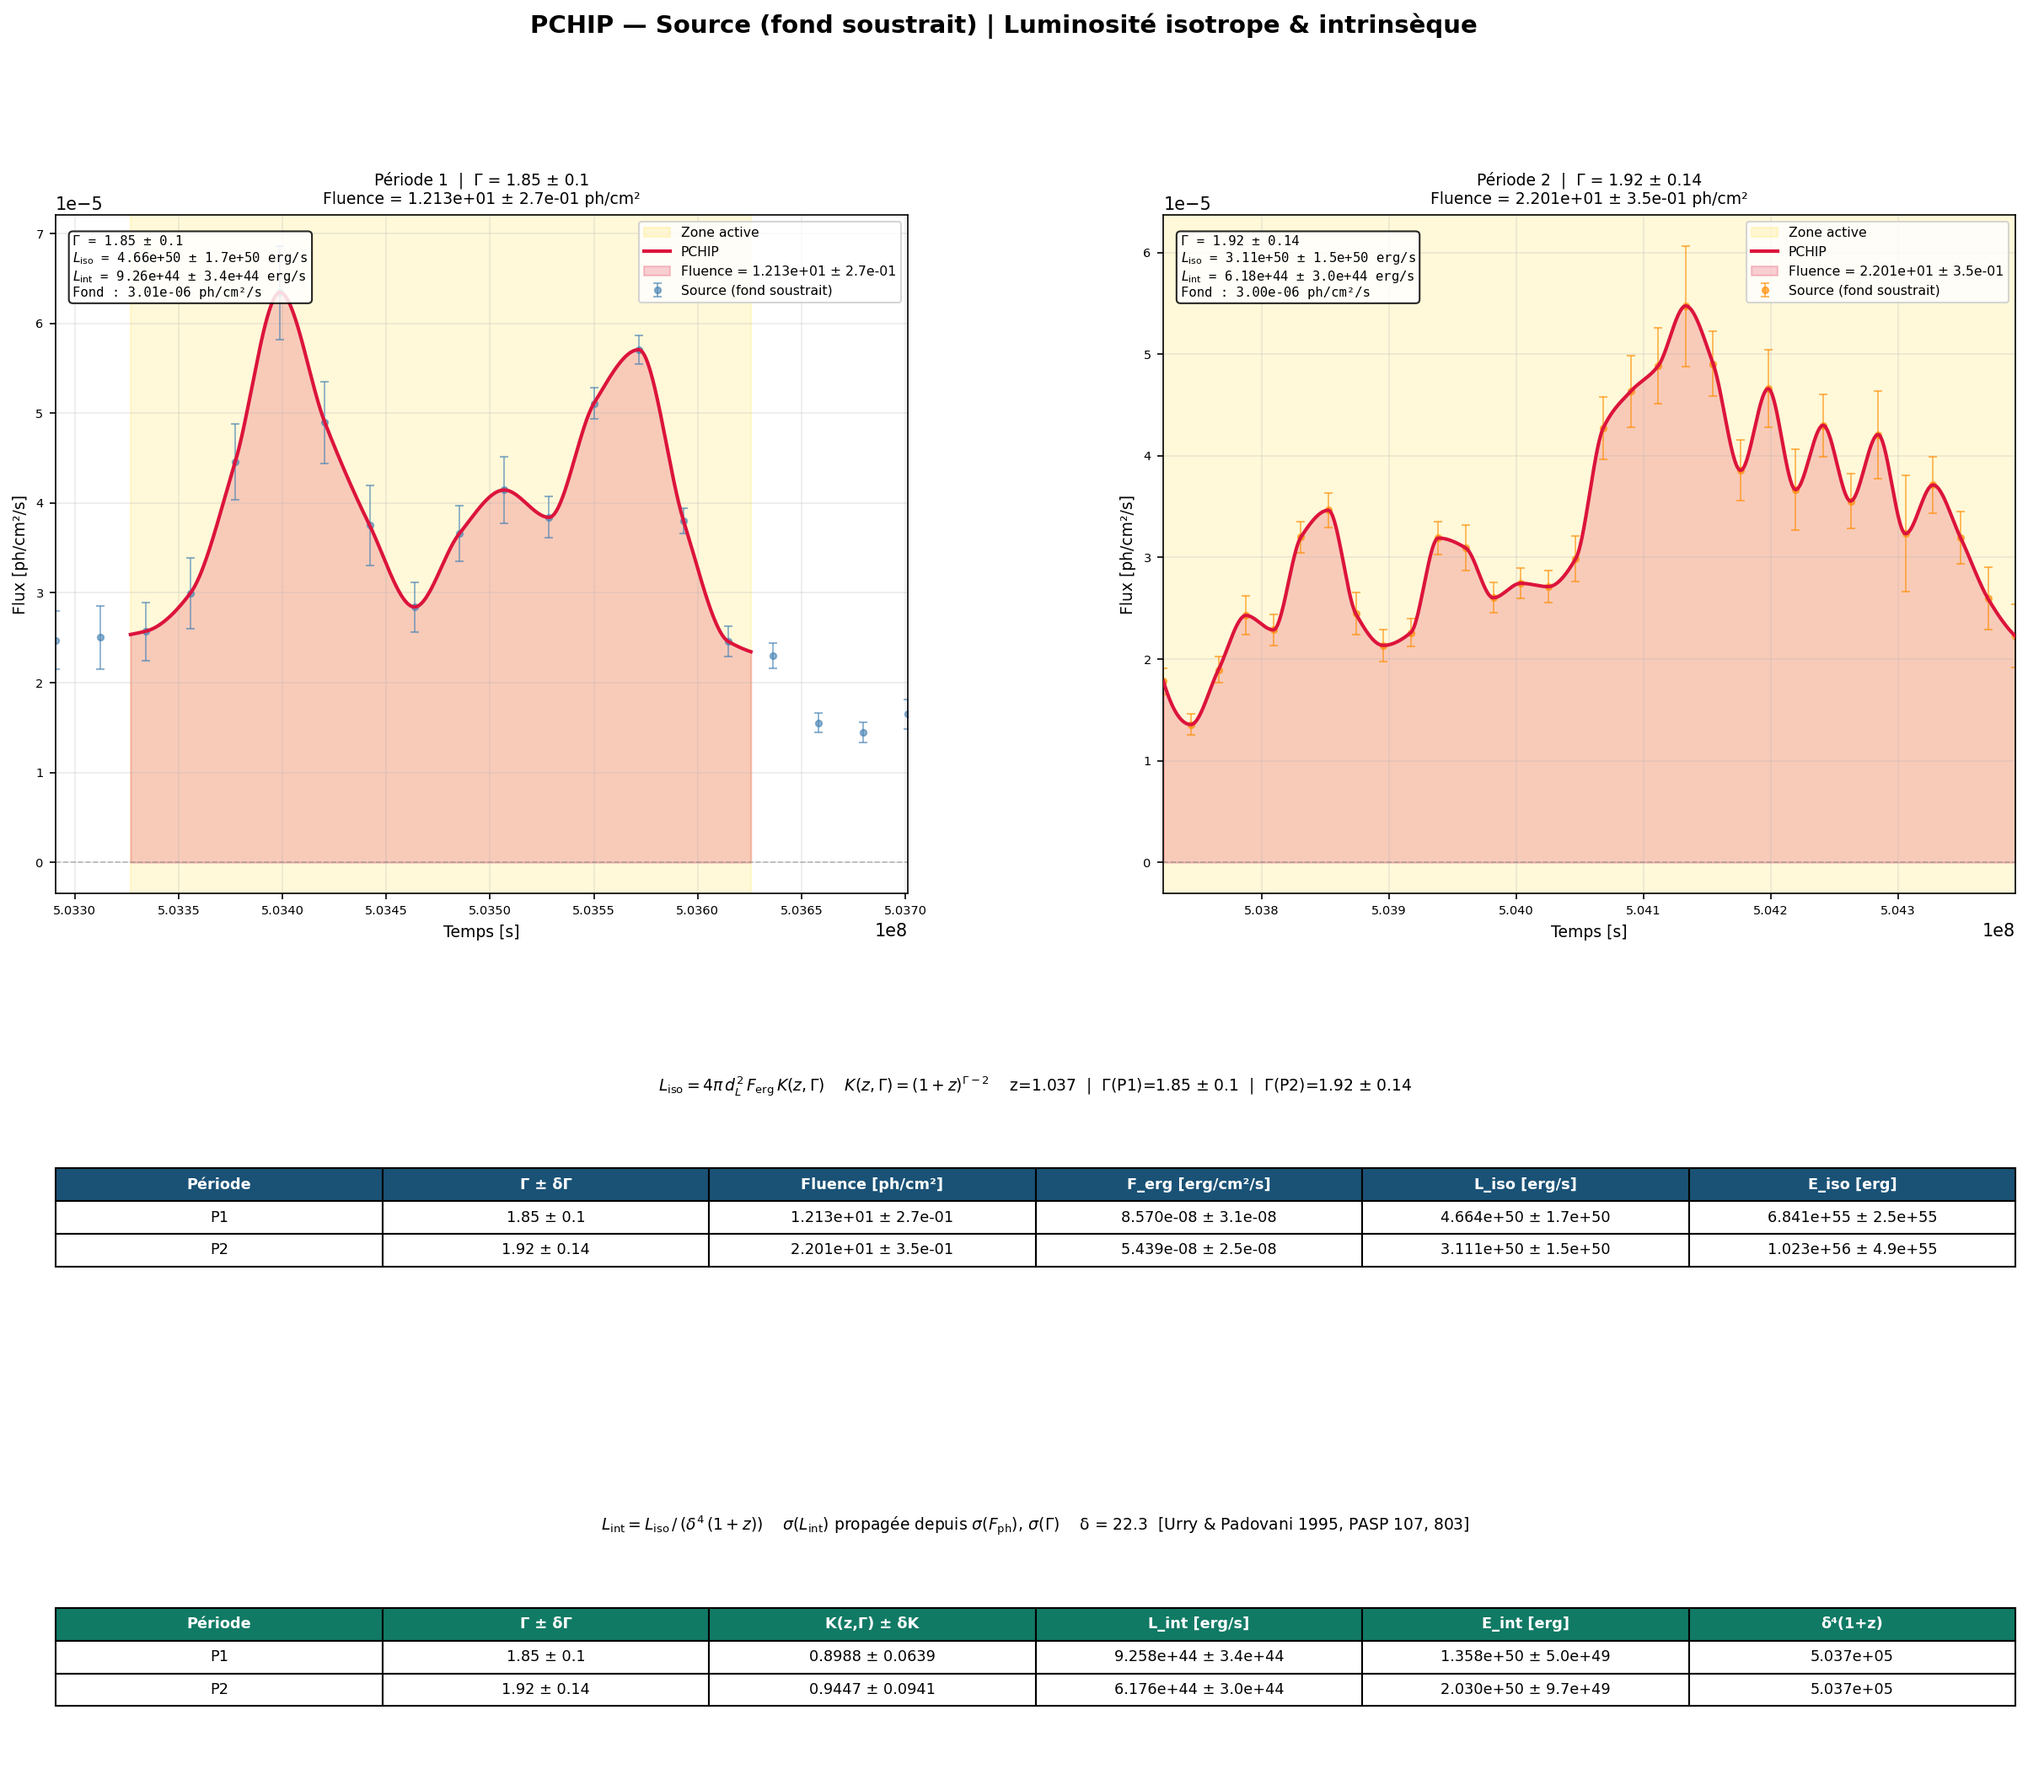
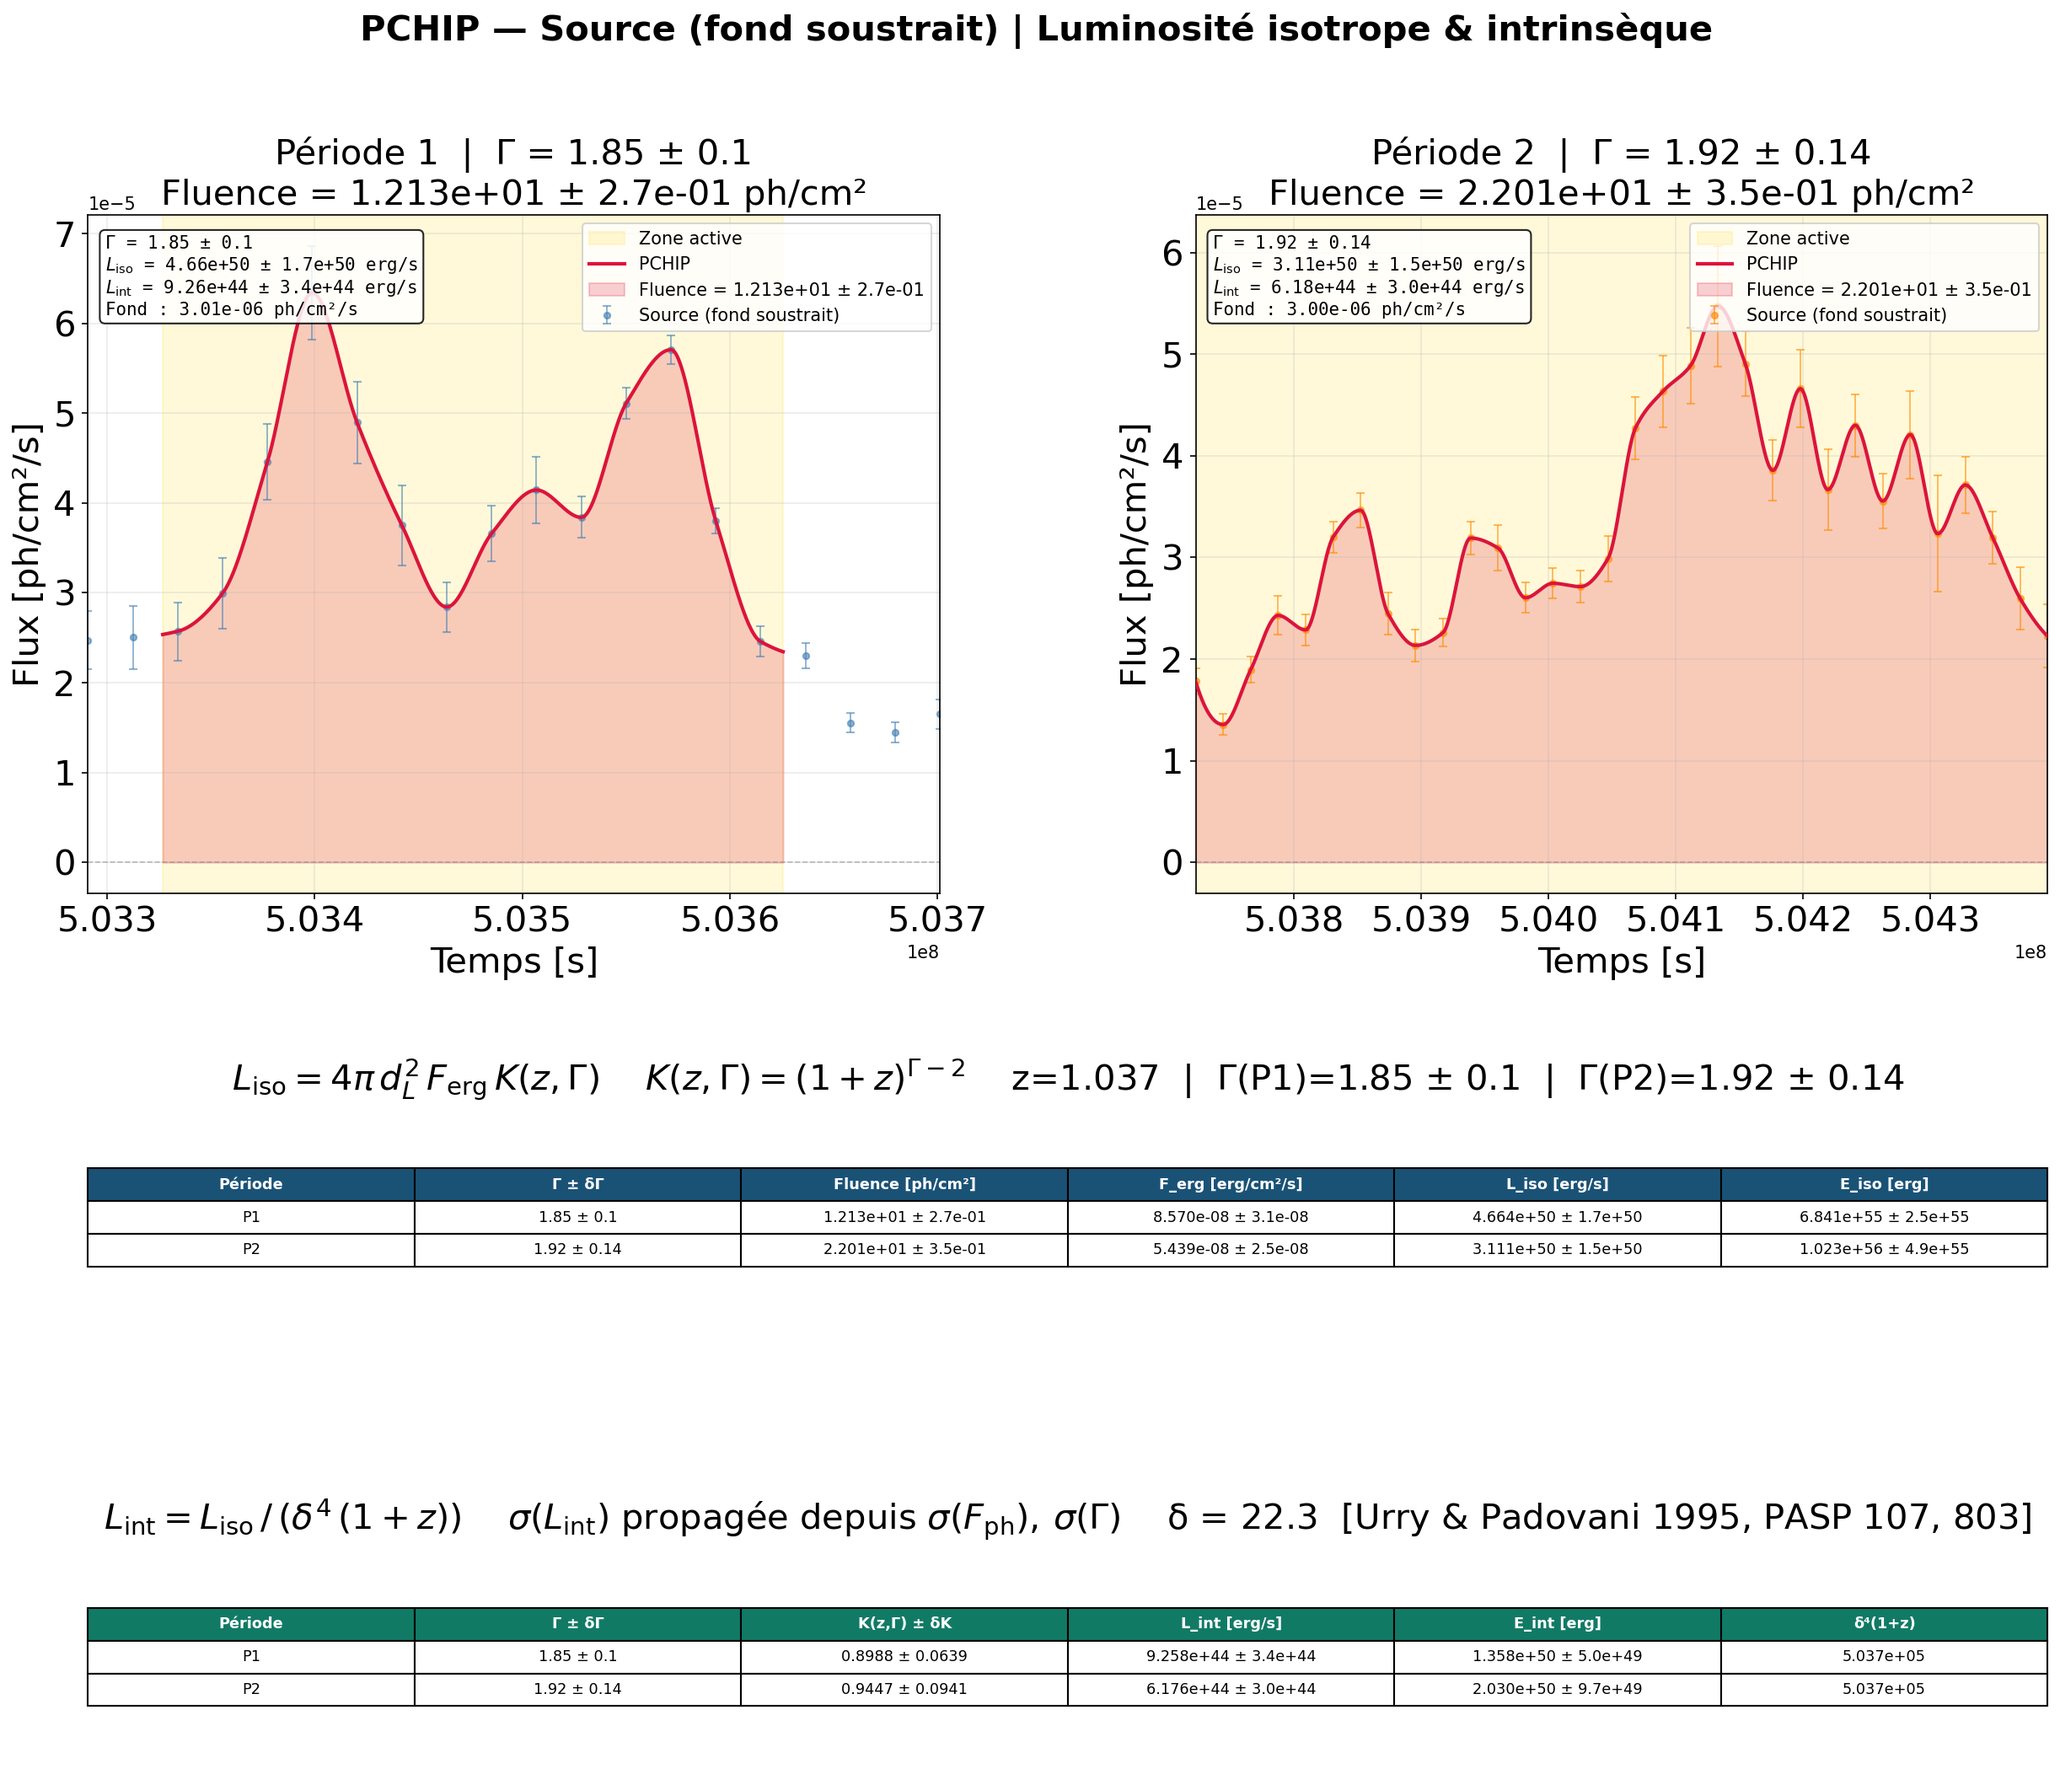
maj 16/03

diff --git a/flux_integral.py b/flux_integral.py
@@ -214,6 +214,7 @@ def k_correction_with_err(gamma, gamma_err, redshift):
     K      = (1.0 + redshift)**(gamma - 2.0)
     dK_dG  = np.log(1.0 + redshift) * K
     K_err  = abs(dK_dG) * gamma_err
+    print(f"  ⚡ K-correction : K = {K:.6f} ± {K_err:.2e}  (dK/dΓ = {dK_dG:.6f})")
     return K, K_err
 
 # ==============================================================
@@ -315,7 +316,7 @@ def plot_all(results, outdir):
 
     fig = plt.figure(figsize=(20, 16))
     fig.suptitle("PCHIP — Source (fond soustrait) | Luminosité isotrope & intrinsèque",
-                 fontsize=14, fontweight='bold')
+                 fontsize=20, fontweight='bold')
 
     gs = gridspec.GridSpec(3, 2,
                            height_ratios=[2.5, 0.85, 0.85],
@@ -353,7 +354,7 @@ def plot_all(results, outdir):
                 f"$L_{{\\rm int}}$ = {lum['L_int']:.2e} ± {lum['L_int_err']:.1e} erg/s\n"
                 f"Fond : {r['bkg_mean']:.2e} ph/cm²/s",
                 xy=(0.02, 0.97), xycoords='axes fraction',
-                fontsize=7.5, va='top', family='monospace',
+                fontsize=10, va='top', family='monospace',
                 bbox=dict(boxstyle='round,pad=0.3', fc='white', alpha=0.85)
             )
 
@@ -361,13 +362,13 @@ def plot_all(results, outdir):
         ax.set_title(
             f"{pnum}  |  Γ = {r['gamma']} ± {r['gamma_err']}\n"
             f"Fluence = {fluence:.3e} ± {flu_err:.1e} ph/cm²",
-            fontsize=9)
-        ax.set_xlabel("Temps [s]", fontsize=9)
-        ax.set_ylabel("Flux [ph/cm²/s]", fontsize=9)
-        ax.legend(loc='upper right', fontsize=7.5)
+            fontsize=20)
+        ax.set_xlabel("Temps [s]", fontsize=20)
+        ax.set_ylabel("Flux [ph/cm²/s]", fontsize=20)
+        ax.legend(loc='upper right', fontsize=10)
         ax.grid(True, alpha=0.25)
         ax.set_xlim(time.min(), time.max())
-        ax.tick_params(labelsize=7)
+        ax.tick_params(labelsize=20)
 
     # ── Tableau luminosité ISOTROPE ───────────────────────────
     ax_iso = fig.add_subplot(gs[1, :])
@@ -404,7 +405,7 @@ def plot_all(results, outdir):
         r"$L_{\rm iso} = 4\pi\,d_L^2\,F_{\rm erg}\,K(z,\Gamma)$"
         r"    $K(z,\Gamma)=(1+z)^{\Gamma-2}$"
         f"    z={REDSHIFT}  |  {gamma_str}",
-        fontsize=9, pad=6)
+        fontsize=20, pad=6)
 
     # ── Tableau luminosité INTRINSÈQUE ────────────────────────
     ax_int = fig.add_subplot(gs[2, :])
@@ -437,7 +438,7 @@ def plot_all(results, outdir):
         r"$L_{\rm int} = L_{\rm iso}\,/\,(\delta^4\,(1+z))$"
         r"    $\sigma(L_{\rm int})$ propagée depuis $\sigma(F_{\rm ph}),\,\sigma(\Gamma)$"
         f"    δ = {DELTA_DOPPLER}  [Urry & Padovani 1995, PASP 107, 803]",
-        fontsize=9, pad=6)
+        fontsize=20, pad=6)
 
     plt.savefig(os.path.join(outdir, "pchip_source_luminosity.png"),
                 dpi=150, bbox_inches='tight')

diff --git a/peak_fitting_fond_best.py b/peak_fitting_fond_best.py
@@ -7,28 +7,30 @@ from scipy.optimize import curve_fit
 # =====================================================
 # PARAMÈTRES UTILISATEUR
 # =====================================================
-N_FLARES = 2
+N_FLARES = 4
 N_MC     = 10000   # nombre de tirages Monte-Carlo
 
-filename       = "results_simple/lat_photon_flare1article_selected_radius4_LC_p6h.fits"
+filename       = "results_simple/lat_photon_flare2article_selected_radius4_LC_p6h.fits"
 filenames_fond = [
-    "SED_output/FOND_peak/gt_bin_activite_1_fond_1_100_20000.fits",
-    "SED_output/FOND_peak/gt_bin_activite_1_fond_2_100_20000.fits",
-    "SED_output/FOND_peak/gt_bin_activite_1_fond_3_100_20000.fits",
+    "SED_output/FOND_peak/gtbin/gt_bin_activite_2_fond_1_100_350000.fits",
+    "SED_output/FOND_peak/gtbin/gt_bin_activite_2_fond_2_100_350000.fits",
+    "SED_output/FOND_peak/gtbin/gt_bin_activite_2_fond_3_100_350000.fits",
 ]
 
-T_MIN = 503280004+13*3600 #503280004+13*3600  # 5.03277224e+08 activite 2 503712004
-T_MAX = 503280004+4*86400 #503280004+4*86400 qctivite 2 504403204
-PEAK_TIME_CONSTRAINTS = [
-    (5.033991e+8, 5.033304e+08, 5.034909e+08),   # Peak 1
-    (5.035638e+08, 5.034482e+08, 5.036444e+08),   # Peak 2
-]
+# T_MIN = 503280004+13*3600 #503280004+13*3600  # 5.03277224e+08 activite 2 503712004
+# T_MAX = 503280004+4*86400 #503280004+4*86400 activite 2 504403204
+T_MIN = 503712004 #activite 2 
+T_MAX = 504403204 #activite 2 
 # PEAK_TIME_CONSTRAINTS = [
-#      (503850244.000, 503850244.000-13.21*3600, 503850244.000+6.31*3600),   # Peak 1
-#      (503936644.000, 503936644.000-4.01*3600, 503936644.000+9.48*3600),   # Peak 2
-#      (504109444.000, 504109444.000-12.50*3600, 504109444.000+15.30*3600),   # Peak 3
-#      (504282244.000, 504282244.000-14.53*3600, 504282244.000+9.83*3600),   # Peak 4
+#     (5.033991e+8, 5.033304e+08, 5.034909e+08),   # Peak 1
+#     (5.035638e+08, 5.034482e+08, 5.036444e+08),   # Peak 2
 # ]
+PEAK_TIME_CONSTRAINTS = [
+     (503850244.000, 503850244.000-13.21*3600, 503850244.000+6.31*3600),   # Peak 1
+     (503936644.000, 503936644.000-4.01*3600, 503936644.000+9.48*3600),   # Peak 2
+     (504109444.000, 504109444.000-12.50*3600, 504109444.000+15.30*3600),   # Peak 3
+     (504282244.000, 504282244.000-14.53*3600, 504282244.000+9.83*3600),   # Peak 4
+]
 # =====================================================
 # LECTURE FOND
 # =====================================================
@@ -245,6 +247,6 @@ ax.set_title(f"Courbe de lumière — {N_FLARES} peak(s), fond soustrait, MC={N_
 ax.legend(fontsize=9)
 ax.grid(True, alpha=0.3)
 
-plt.savefig("light_curve_fit_6h_MC_activite_1_article.png", dpi=150, bbox_inches="tight")
+plt.savefig("light_curve_fit_6h_MC_activite_2_article.png", dpi=150, bbox_inches="tight")
 plt.show()
-print("\nFigure sauvegardée : light_curve_fit_MC.png")
+print("\nFigure sauvegardée : light_curve_fit_MC_activite_2_article.png")

diff --git a/pipeline.py b/pipeline.py
@@ -10,15 +10,15 @@ import argparse
 # 0. PARAMÈTRES PAR DÉFAUT
 # ==============================================================================
 
-DEFAULT_RA     = 338.1849#  valeur pour la source 338.1849
-DEFAULT_DEC    = 11.718641 # 11.718641 valeur pour la source 
-DEFAULT_RAD    = 4 # valeurs pour la source 4
+DEFAULT_RA     = 324#  valeur pour la source 338.1849
+DEFAULT_DEC    = -3 # 11.718641 valeur pour la source 
+DEFAULT_RAD    = 10 # valeurs pour la source 4
 DEFAULT_ZMAX   = 90.0
 INPUT_FITS     = "data/Photon_projet/lat_photon_weekly_all.fits"
 FT2_FILE       = "data/Photon_projet/spacecraft_projet/L2602050555366B2DD36C49_SC00.fits"
 RESULTS_DIR    = "results_simple"
-OUTPUT_BASE_DIR = "SED_output"
-name_of_region = "activite_2" # _fond_1 à modifier pour la source ou les autres fonds 
+OUTPUT_BASE_DIR = "SED_output/FOND_peak"
+name_of_region = "activite_2_fond_3" # _fond_1 à modifier pour la source ou les autres fonds 
 
 # TIME_INTERVALS = [
 #     (5.03377224e+08, 5.03593224e+08, "activite_1"),
@@ -53,19 +53,19 @@ SRC_MODEL    = "none"
 #     (   9867.93,   14048.44),
 #     (  14048.44,   20000.00),
 # ]
-ENERGY_BINS = [
-    (    100.00,     163.79),
-    (    163.79,     268.23),
-    (    268.23,     439.37),
-    (    439.37,     719.69),
-    (    719.69,    1178.91),
-    (   1178.91,    1931.11),
-    (   1931.11,    3163.88),
-    (   3163.88,    5182.03),
-    (   5182.03,    8490.18),
-    (   8490.18,   13908.03),
-    (  13908.03,   35000.00),
-]#activite 2 sed
+# ENERGY_BINS = [
+#     (    100.00,     163.79),
+#     (    163.79,     268.23),
+#     (    268.23,     439.37),
+#     (    439.37,     719.69),
+#     (    719.69,    1178.91),
+#     (   1178.91,    1931.11),
+#     (   1931.11,    3163.88),
+#     (   3163.88,    5182.03),
+#     (   5182.03,    8490.18),
+#     (   8490.18,   13908.03),
+#     (  13908.03,   35000.00),
+# ]#activite 2 sed
 # ENERGY_BINS = [
 #     (    100.00,     156.93),
 #     (    156.93,     246.27),
@@ -82,8 +82,8 @@ ENERGY_BINS = [
 #     (  22293.49,   34987.15),
 #     (  34987.15,   45000.00),
 # ]
-# ENERGY_BINS = [
-#     (    100.00,     300000),]
+ENERGY_BINS = [
+    (    100.00,     350000),]
 
 
 # ==============================================================================
